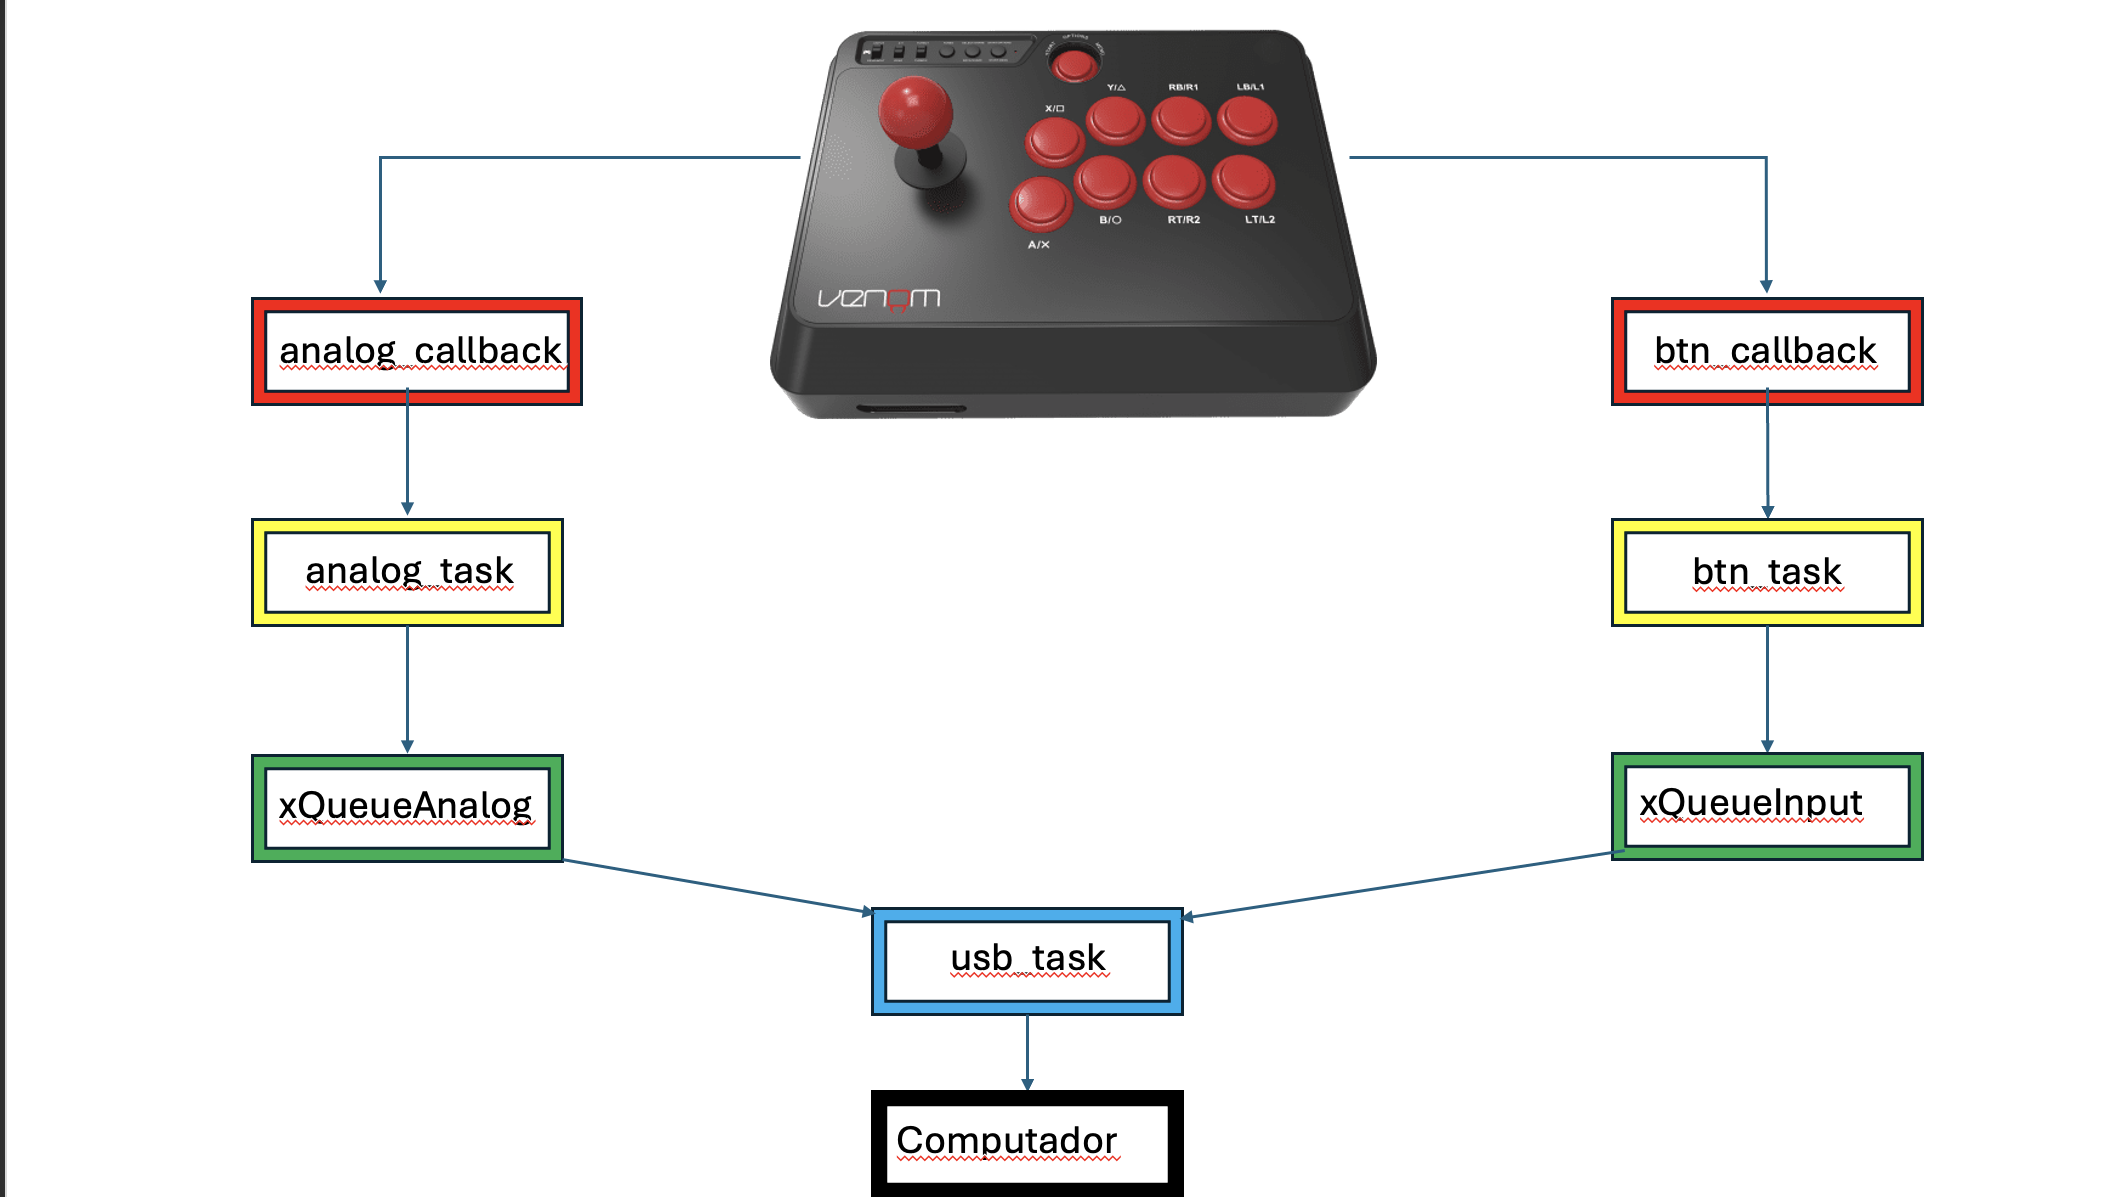
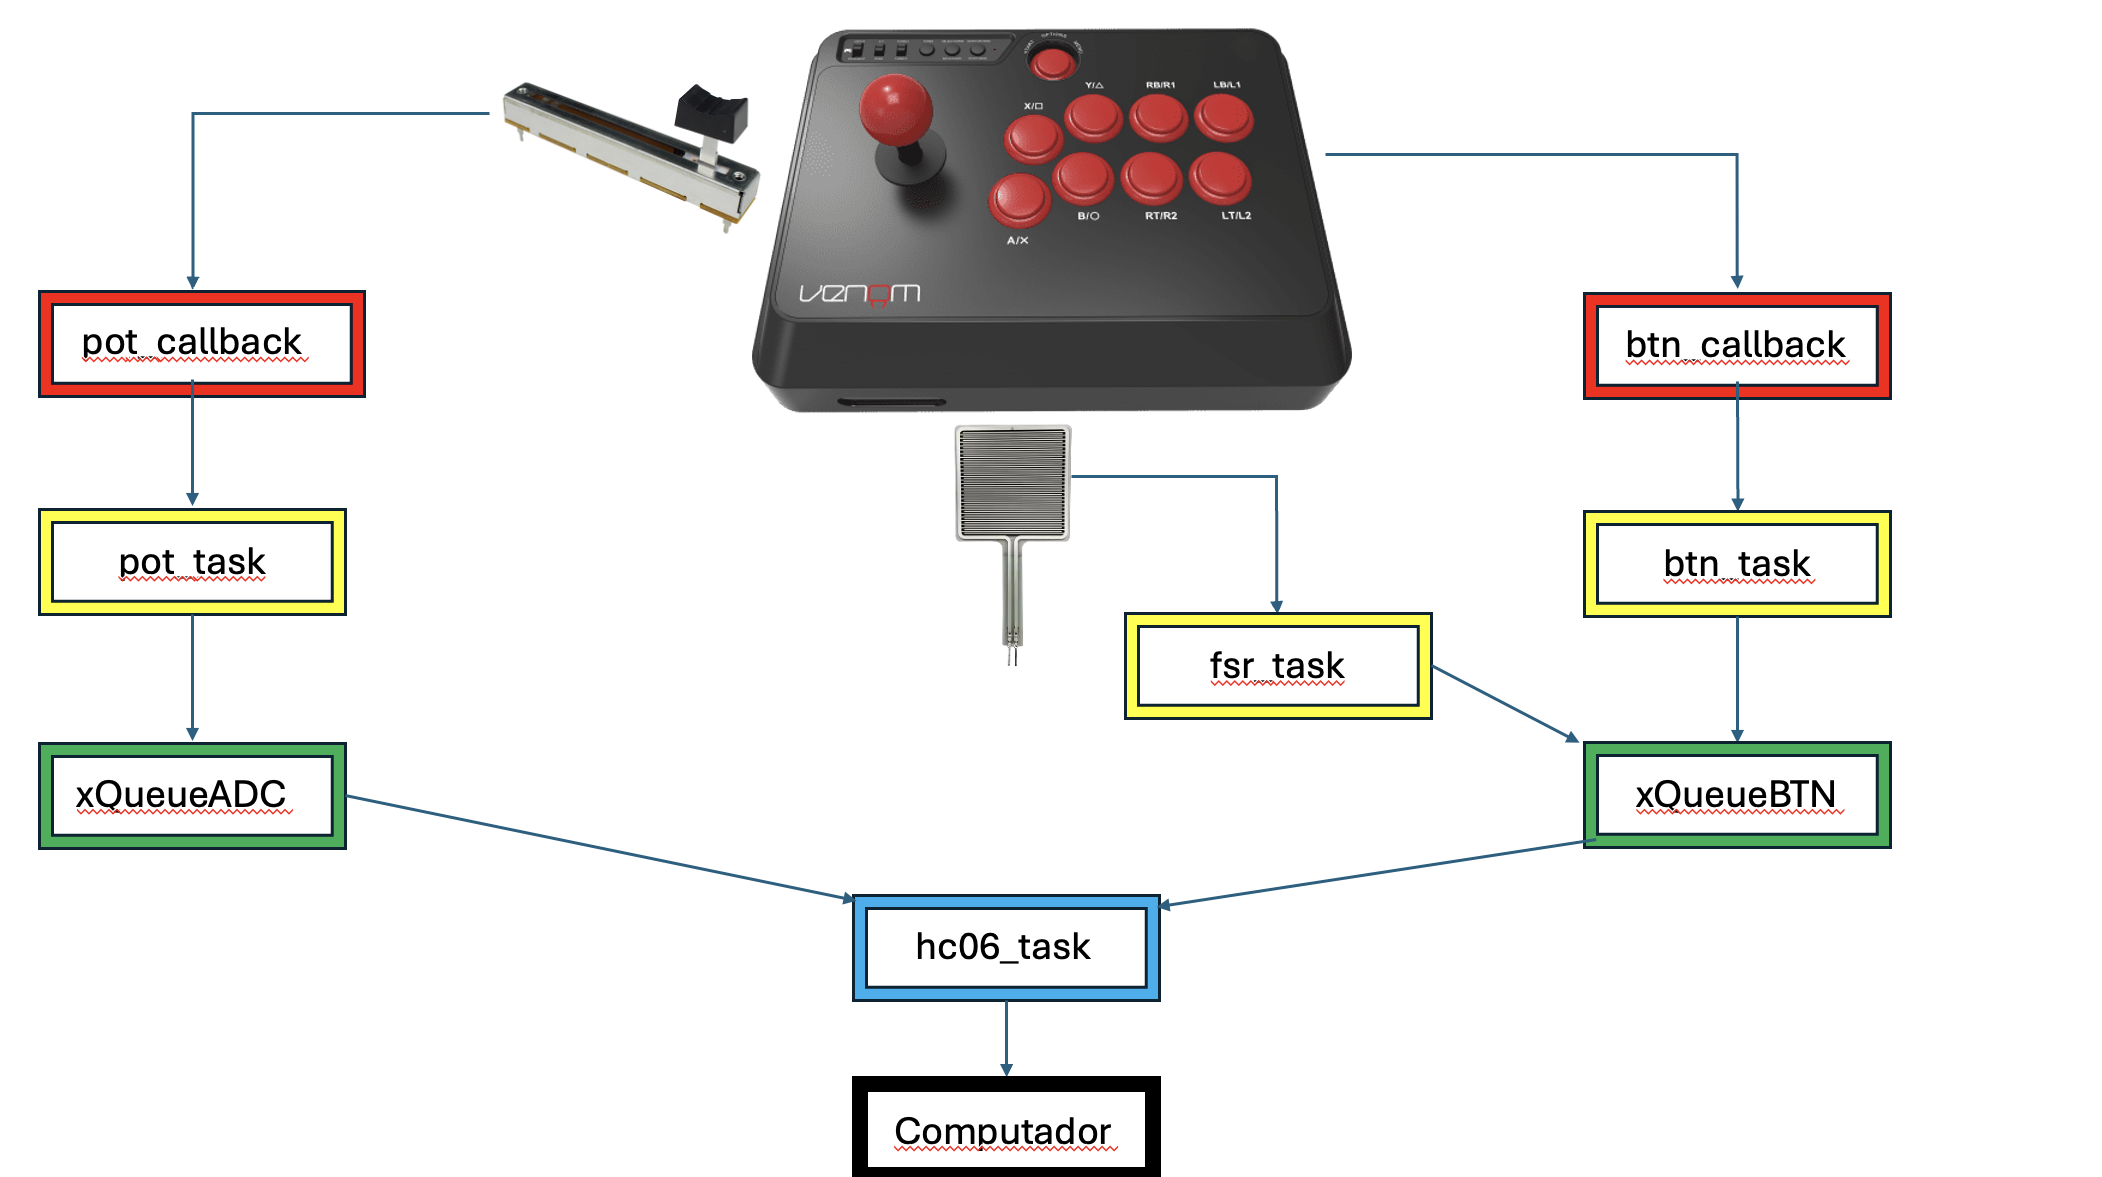
melhorando o README e imagem

diff --git a/README.md b/README.md
@@ -2,7 +2,7 @@
 
 # Sistema Embarcado para Arcade Stick
 
-Este projeto implementa um sistema embarcado para um arcade stick, com suporte a botões e controles analógicos. O sistema é projetado para ser usado com um PC ou console, fornecendo feedback através de LEDs.
+Este projeto implementa um sistema embarcado para um arcade stick, baseado no microcontrolador RP2040 com FreeRTOS. O sistema utiliza botões digitais, um sensor FSR e um potenciômetro linear, com comunicação via Bluetooth (HC-06) para simular entradas de controle em um PC ou console. É ideal para jogos retrô ou interfaces customizadas.
 
 ## Diagrama de Fluxo
 
@@ -10,30 +10,32 @@ O sistema embarcado segue o fluxo descrito no diagrama abaixo:
 
 ![Diagrama de Fluxo](img/ArcadeStick.png)
 
-### 1. **Botões do Arcade**
-   - Cada botão no arcade é monitorado por uma tarefa chamada `button_task`. Quando um botão é pressionado ou liberado, a informação é colocada em uma fila (`xQueueInput`).
+### 1. **Botões Digitais**
+   - Até 12 botões são monitorados pela tarefa `button_task`. Quando um botão é pressionado ou liberado, a informação é colocada em uma fila (`xQueueInput`).
 
-### 2. **Controle Analógico X/Y**
+### 2. **Sensor FSR (Force-Sensing Resistor)**
    - O controle analógico (X/Y) é monitorado por outra tarefa chamada `analog_task`. Quando o analógico é movido, os dados de posição são enviados para uma fila (`xQueueAnalog`).
 
-### 3. **Tarefa USB (`usb_task`)**
-   - Ambas as filas, `xQueueInput` (botões) e `xQueueAnalog` (controle analógico), são lidas pela tarefa `usb_task`, que processa os dados recebidos e os converte em pacotes HID (Human Interface Device).
+### 3. **Potenciômetro Linear**
+   - Um potenciômetro linear é usado para controle analógico, como ajuste de volume. A tarefa `pot_task` lê o valor suavizado e envia somente quando há variação significativa.
 
-### 4. **USB HID**
-   - O pacote HID gerado é enviado via USB para o PC ou console. O sistema utiliza o protocolo USB HID para enviar dados de entrada de botões e controles analógicos.
+### 4. **Tarefa Bluetooth (hc06_task)**
+   - As filas `xQueueBTN` (botões e FSR) e `xQueueADC` (potenciômetro) são lidas pela `hc06_task`, que transmite os dados via UART para o módulo HC-06.
 
-### 5. **PC/Console**
-   - O PC ou console recebe os dados e os interpreta como entradas de um joystick ou controle, permitindo ao usuário interagir com o sistema.
+### 5. **Módulo Bluetooth HC-06**
+   - O HC-06 envia os comandos via Bluetooth para um script Python ou aplicação no PC/console, que interpreta os dados e os converte em ações no sistema.
 
-### 6. **Feedback com LEDs/Buzzer (Opcional)**
+### 6. **Feedback Visual (Opcional)**
    - Feedback visual e sonoro pode ser adicionado, como LEDs piscando ou buzzer emitindo sons, para confirmar as ações ou informar o estado do dispositivo.
 
 ## Requisitos
 - Microcontrolador compatível com FreeRTOS.
-- Suporte a USB HID (Human Interface Device).
-- Biblioteca para controle de LEDs e buzzer (se desejado).
-- Conexão USB ao PC ou Console.
+- Módulo Bluetooth HC-06.
+- Sensor FSR.
+- Potenciômetro linear.
+- Fonte de alimentação estável e conexão UART.
 
 ### Explicações adicionais:
-- **Sensores adicionar:** É extremamente possivel que suporte a outros tipos de sensores e funcionalidades sejam adicionados, isso é apenas o basico.
+- **Modularidade:** O sistema pode ser expandido com novos sensores ou modos de controle facilmente, graças à estrutura baseada em tarefas e filas do FreeRTOS.
+- **Compatibilidade:** O projeto foi pensado para facilitar a integração com scripts Python que interpretam os dados recebidos via Bluetooth como comandos do teclado ou controle.
 
